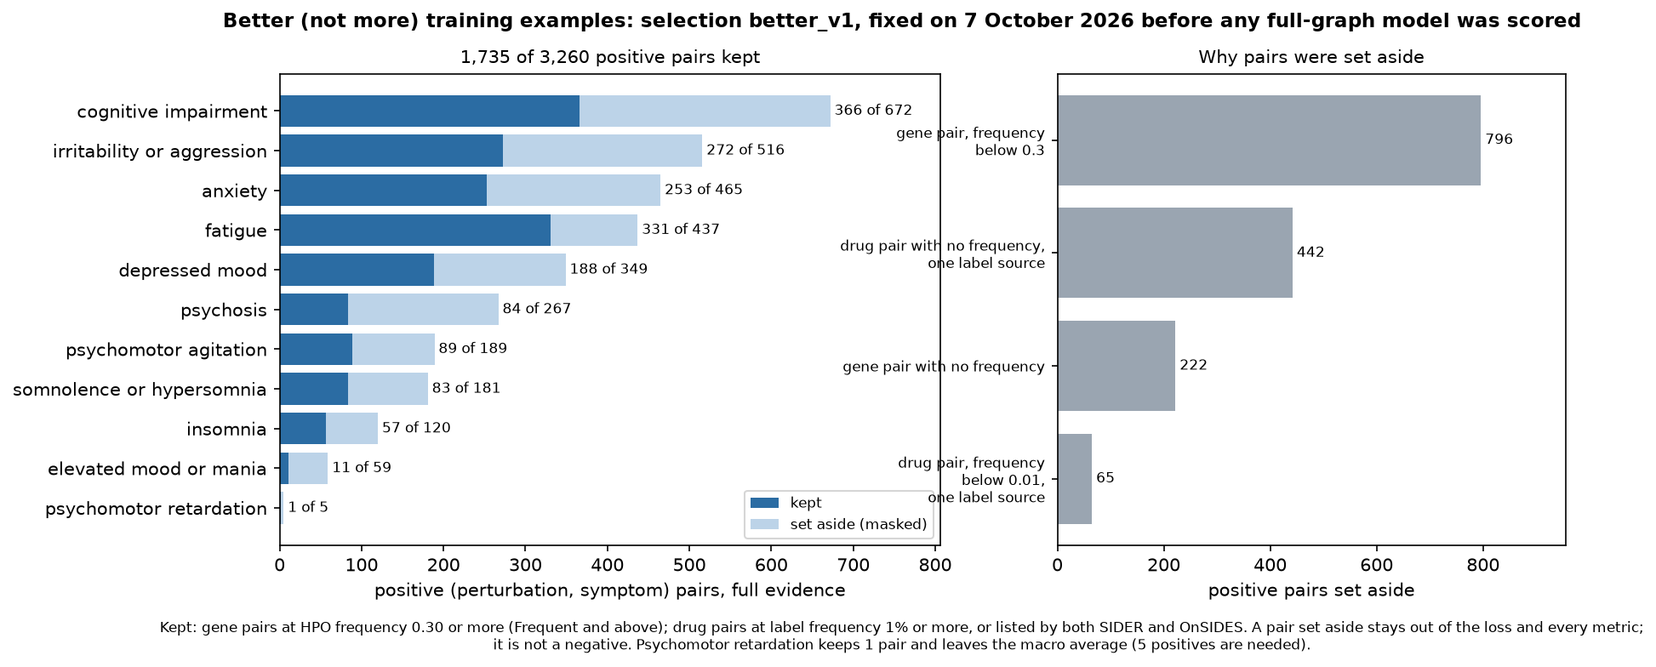
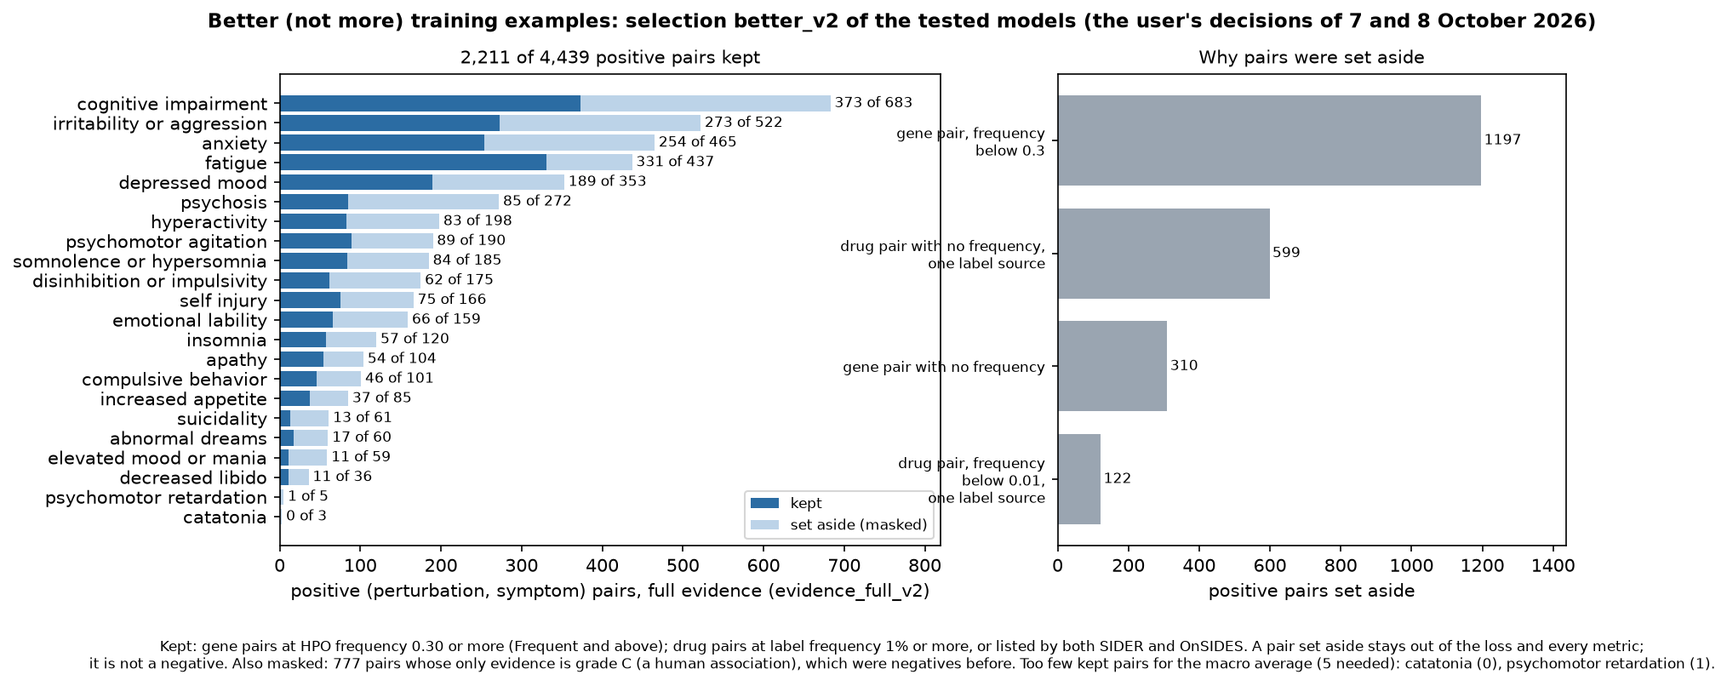
Explanatory figures brought up to date
The model figure now shows the two tested models (noisy-OR head on the
message-passing and linear-response encoders; sigmoid head on the slice
only), better_v2 labels, the 22 symptoms, rotated validation and refit,
and the cell-class channels the linear-response configurations use. The
label figure reads better_v2 with the grade C masking. The twin figure is
redrawn from the 41 regenerated pairs. The slice baselines figure is added
with a computed title. A new figure shows the gene and protein split with
the counts of graph_full_neuronal_split. No second-family development
score or lockbox output is read.

Claude-Session: https://claude.ai/code/session_01M6JNfpSxQbjqBt6hD4RjMV

Changed region(s): [[0.0, 0.0, 0.9866, 0.9796]]

diff --git a/experiments/make_explanatory_figures.py b/experiments/make_explanatory_figures.py
@@ -2,10 +2,11 @@
 
   1. model_pipeline: perturbation, graph layers, linear-response propagation, output gate, pooling, head and labels;
   2. cell_class_channels: the cell-class channels of LinearResponseEncoder on a six-node chain, computed by the encoder;
-  3. label_selection: the better_v1 label selection per symptom and the reasons pairs were set aside;
+  3. label_selection: the better_v2 label selection per symptom and the reasons pairs were set aside;
   4. dopaminergic_class: marker genes in the dopaminergic class against the highest Human Protein Atlas cluster type;
   5. slice_twin_comparisons: the one-change twin comparisons of the slice pilot (runs/twin_comparisons.json);
-  6. slice_baselines_and_models: per-fold macro AUPRC of the slice baselines and model configurations.
+  6. slice_baselines_and_models: per-fold macro AUPRC of the slice baselines and model configurations;
+  7. gene_protein_split: gene and protein nodes of graph_full_neuronal_split, with its counts.
 
 Figures whose inputs are missing are skipped with a message. Writes PNG files to docs/figures/. Idempotent.
 
@@ -33,7 +34,10 @@ from mechanistic_pathway_learning.models.linear_response_encoder import LinearRe
 
 OUTPUT_DIRECTORY = Path("docs/figures")
 FULL_GRAPH_DIRECTORY = Path("data/processed/graph_full_neuronal")
-LABEL_SELECTION_SUMMARY = Path("data/processed/label_selection/better_v1_full.summary.json")
+SPLIT_GRAPH_DIRECTORY = Path("data/processed/graph_full_neuronal_split")
+LABEL_SELECTION_SUMMARY = Path("data/processed/label_selection/better_v2_full_v2.summary.json")
+CELL_CLASS_WEIGHTS = Path("data/processed/cell_class_weights/full_neuronal_cell_class_weights.parquet")
+MINIMUM_POSITIVES_FOR_MACRO = 5
 DOPAMINERGIC_SUMMARY = Path("data/processed/brain_expression/dopaminergic_siletti_cluster395.summary.json")
 TWIN_COMPARISONS = Path("runs/twin_comparisons.json")
 SLICE_BASELINES = Path("runs/baselines_disease_cluster/results.json")
@@ -74,39 +78,54 @@ def draw_arrow(axis, start: tuple[float, float], end: tuple[float, float]) -> No
 
 def figure_model_pipeline() -> None:
     counts = graph_layer_counts(FULL_GRAPH_DIRECTORY)
+    split_summary = json.loads((SPLIT_GRAPH_DIRECTORY / "split_summary.json").read_text())
+    label_summary = json.loads(LABEL_SELECTION_SUMMARY.read_text())
+    cell_classes = [column for column in pd.read_parquet(CELL_CLASS_WEIGHTS).columns if column != "all_cells"]
     layer_lines = "\n".join(f"{layer}: {number:,} edges" for layer, number in sorted(counts["edges_by_layer"].items(), key=lambda item: -item[1]))
     node_lines = ", ".join(f"{number:,} {node_type.replace('_', ' ')}" for node_type, number in counts["node_types"].items() if number > 1)
-    figure, axis = plt.subplots(figsize=(14, 7.2))
+    figure, axis = plt.subplots(figsize=(15, 8.4))
     axis.set_xlim(0, 1)
     axis.set_ylim(0, 1)
     axis.axis("off")
-    top_row, bottom_row, height = 0.73, 0.27, 0.38
+    top_row, bottom_row, height = 0.755, 0.245, 0.44
     draw_box(axis, 0.105, top_row, 0.19, height, "1. Perturbation",
              "monogenic: loss or gain of function\nat one gene (sign, magnitude)\n\ndrug: signed effect at its\nprotein targets (ChEMBL mechanisms)\n\n"
-             "entered as a sustained input u\nat the perturbed nodes", BOX_COLOURS["input"])
-    draw_box(axis, 0.42, top_row, 0.38, height, "2. Graph (graph_full_neuronal)",
+             "entered as a sustained input u\nat the perturbed nodes\n\non the split graph (figure 7):\nknockouts seed gene nodes,\ndrugs seed protein nodes",
+             BOX_COLOURS["input"])
+    draw_box(axis, 0.415, top_row, 0.38, height, "2. Graph (graph_full_neuronal)",
              f"{counts['nodes']:,} nodes, {counts['edges']:,} edges, {counts['relations']} relations\n{node_lines}\n\n{layer_lines}\n\n"
-             "signed edges: activation +1, inhibition and\nrepression -1, substrate depletion -1", BOX_COLOURS["graph"])
-    draw_box(axis, 0.81, top_row, 0.34, height, "3. Linear-response propagation",
-             "h(t+1) = (1 - d) h(t) + d w_k (sum_r g_r S_r h(t) + u)\n\nS_r: signed adjacency of relation r, normalised\n"
-             "g_r: learned gain per relation and channel\n8 steps; the field is the change from baseline\n\n"
-             "w_k: node weight in cell class k (11 classes and\nall cells; implemented, not yet run)", BOX_COLOURS["propagation"])
-    draw_box(axis, 0.2, bottom_row, 0.36, height, "4. Readout field and output gate",
-             "field = (h W) * sigmoid(node properties W_g + b)\n\nnode properties (fixed, per node type):\nprotein (ESM-2 embeddings), metabolite and\n"
-             "reaction (EC) descriptors; brain region and\ncell-class expression, dopaminergic class included\n\n"
-             "properties change where the response is read,\nnot how it propagates", BOX_COLOURS["readout"])
+             "signed edges: activation +1, inhibition and\nrepression -1, substrate depletion -1\n\n"
+             f"gene and protein split (figure 7): {split_summary['gene_nodes'] + split_summary['protein_nodes']:,} gene and protein\n"
+             f"nodes, {split_summary['edges_after']:,} edges; slice runs only, the tested\nconfigurations do not use it",
+             BOX_COLOURS["graph"])
+    draw_box(axis, 0.815, top_row, 0.35, height, "3. Encoder (one per tested model)",
+             "message passing: node states from structural\nfeatures and descriptors, 2 layers of typed\nmessages (mean per relation)\n\n"
+             "linear response, 8 steps:\nh(t+1) = (1 - d) h(t) + d w_k (sum_r g_r S_r h(t) + u)\n"
+             "S_r: signed adjacency of relation r, normalised\ng_r: learned gain per relation and channel\n"
+             f"w_k: node weight in cell class k ({len(cell_classes)} classes and all\ncells), extracellular pools shared across classes\n\n"
+             "both read the difference field:\nperturbed minus unperturbed", BOX_COLOURS["propagation"])
+    draw_box(axis, 0.2, bottom_row, 0.36, height, "4. Node properties",
+             "fixed, per node type: protein (ESM-2 embeddings),\nmetabolite and reaction (EC) descriptors; brain\n"
+             "region and cell-class expression, with the\ndopaminergic class\n\n"
+             "message passing: in the node's starting state\nlinear response: in the output gate,\n"
+             "field = (h W) * sigmoid(node properties W_g + b),\nwhich changes where the response is read,\nnot how it propagates\n\n"
+             "treatments that keep the graph in charge (seed\nmasking, zero-initialised slow descriptor map):\nslice arms only, not applied", BOX_COLOURS["readout"])
     draw_box(axis, 0.52, bottom_row, 0.2, height, "5. Pooling and head",
-             "sum over nodes\n\nB3: sigmoid head\n(one logit per symptom)\n\nB6: noisy-OR over\npathway modules (gated\nnode supports and links)", BOX_COLOURS["readout"])
+             "sum over nodes\n\nnoisy-OR over pathway\nmodules (gated node\nsupports and links); each\nleak starts at its\nloss-optimal constant\n\n"
+             "sigmoid head (one logit\nper symptom): slice\ncomparisons only, dropped\nfrom the tested models\non 8 October", BOX_COLOURS["readout"])
     draw_box(axis, 0.82, bottom_row, 0.32, height, "6. Symptoms and labels",
-             "11 psychiatric symptoms\n\nlabels: HPO annotations (genes), SIDER and\nOnSIDES drug labels (drugs)\n"
-             "better_v1: low-frequency positives masked,\nneither positive nor negative\nunobserved pairs stay unlabelled\n\n"
-             "disease-cluster grouped folds", BOX_COLOURS["output"])
-    draw_arrow(axis, (0.2, top_row), (0.231, top_row))
-    draw_arrow(axis, (0.61, top_row), (0.641, top_row))
+             f"{len(label_summary['all_by_symptom'])} psychiatric symptoms in the evidence\n\nlabels: HPO annotations (genes), SIDER and\n"
+             "OnSIDES drug labels (drugs)\nbetter_v2: low-frequency positives and pairs\nwhose only evidence is grade C are masked,\n"
+             "neither positive nor negative;\nunobserved pairs stay unlabelled\n\n"
+             "folds grouped by disease cluster and drug\ntargets; lockbox_v2 held out; early-stopping\nvalidation rotated per seed; refit on\n"
+             "training and validation together", BOX_COLOURS["output"])
+    draw_arrow(axis, (0.2, top_row), (0.225, top_row))
+    draw_arrow(axis, (0.605, top_row), (0.64, top_row))
     draw_arrow(axis, (0.81, top_row - height / 2), (0.2, bottom_row + height / 2))
     draw_arrow(axis, (0.38, bottom_row), (0.42, bottom_row))
     draw_arrow(axis, (0.62, bottom_row), (0.66, bottom_row))
-    axis.set_title("The model, from a perturbation to symptom probabilities", fontsize=12, fontweight="bold")
+    axis.set_title("The two tested models (confirmatory_v2, noisy-OR head on each encoder), from a perturbation to symptom probabilities",
+                   fontsize=12, fontweight="bold")
     save(figure, "model_pipeline")
 
 
@@ -195,7 +214,7 @@ def figure_label_selection() -> None:
     symptom_axis.barh(labels, set_aside, left=kept, color="#bcd3e8", label="set aside (masked)")
     for row, (kept_count, set_aside_count) in enumerate(zip(kept, set_aside)):
         symptom_axis.text(kept_count + set_aside_count + 5, row, f"{kept_count} of {kept_count + set_aside_count}", va="center", fontsize=8)
-    symptom_axis.set_xlabel("positive (perturbation, symptom) pairs, full evidence")
+    symptom_axis.set_xlabel("positive (perturbation, symptom) pairs, full evidence (evidence_full_v2)")
     symptom_axis.set_xlim(0, max(kept + set_aside) * 1.2)
     symptom_axis.legend(loc="lower right", fontsize=8)
     symptom_axis.set_title(f"{summary['kept_pairs']:,} of {summary['positive_pairs']:,} positive pairs kept", fontsize=10)
@@ -209,12 +228,15 @@ def figure_label_selection() -> None:
     reason_axis.tick_params(axis="y", labelsize=8)
     reason_axis.set_xlabel("positive pairs set aside")
     reason_axis.set_title("Why pairs were set aside", fontsize=10)
-    figure.suptitle("Better (not more) training examples: selection better_v1, fixed on 7 October 2026 before any full-graph model was scored",
+    too_few = [f"{symptom.replace('_', ' ')} ({summary['kept_by_symptom'].get(symptom, 0)})" for symptom in symptoms
+               if summary["kept_by_symptom"].get(symptom, 0) < MINIMUM_POSITIVES_FOR_MACRO]
+    figure.suptitle("Better (not more) training examples: selection better_v2 of the tested models (the user's decisions of 7 and 8 October 2026)",
                     fontsize=11, fontweight="bold")
-    figure.text(0.5, -0.06, f"Kept: gene pairs at HPO frequency {summary['gene_minimum_frequency']:.2f} or more (Frequent and above); drug pairs at label "
+    figure.text(0.5, -0.09, f"Kept: gene pairs at HPO frequency {summary['gene_minimum_frequency']:.2f} or more (Frequent and above); drug pairs at label "
                 f"frequency {summary['drug_minimum_frequency']:.0%} or more, or listed by both SIDER and OnSIDES. A pair set aside stays out of the loss "
-                "and every metric;\nit is not a negative. Psychomotor retardation keeps 1 pair and leaves the macro average (5 positives are needed).",
-                ha="center", fontsize=8)
+                f"and every metric;\nit is not a negative. Also masked: {summary['masked_negative_pairs']:,} pairs whose only evidence is grade C (a human "
+                f"association), which were negatives before. Too few kept pairs for the macro average ({MINIMUM_POSITIVES_FOR_MACRO} needed): "
+                f"{', '.join(too_few)}.", ha="center", fontsize=8)
     save(figure, "label_selection")
 
 
@@ -278,12 +300,23 @@ def figure_slice_twin_comparisons() -> None:
     save(figure, "slice_twin_comparisons")
 
 
+def configuration_label(aggregate_name: str) -> str:
+    """The aggregate names a run by its directory, with the path when two directories share a name: runs/encoder/ holds
+    the reruns under the current code."""
+    name = aggregate_name.removesuffix("_disease_cluster")
+    if name.startswith("runs/encoder/"):
+        return name.removeprefix("runs/encoder/") + " (current code)"
+    if name.startswith("runs/"):
+        return name.removeprefix("runs/") + " (earlier code)"
+    return name
+
+
 def figure_slice_baselines_and_models() -> None:
     baselines = json.loads(SLICE_BASELINES.read_text())["splits"]["grouped"]
     runs = json.loads(SLICE_AGGREGATE.read_text())["runs"]
     rows = [(name.replace("_", " ") + " (baseline)", entry["per_fold_macro_auprc_mean"], entry["per_fold_macro_auprc_sd"], True)
             for name, entry in baselines.items()]
-    rows += [(name.removesuffix("_disease_cluster"), entry["per_fold_macro_auprc_mean"], entry["per_fold_macro_auprc_sd"], False)
+    rows += [(configuration_label(name), entry["per_fold_macro_auprc_mean"], entry["per_fold_macro_auprc_sd"], False)
              for name, entry in runs.items() if entry.get("num_splits") == 5]
     rows.sort(key=lambda row: row[1])
     figure, axis = plt.subplots(figsize=(10, 0.27 * len(rows) + 1.6))
@@ -296,17 +329,85 @@ def figure_slice_baselines_and_models() -> None:
     axis.set_yticks(positions, [row[0] for row in rows], fontsize=6.5)
     axis.set_xlim(0.15, max(row[1] + row[2] for row in rows) + 0.02)
     axis.set_xlabel("macro AUPRC per disease-cluster fold, mean ± standard deviation over 5 folds (n divisor)")
-    axis.set_title("Slice pilot (451 genes, metabolic layer): no trained configuration beats the random walk", fontsize=10.5, fontweight="bold")
+    configurations = [row for row in rows if not row[3]]
+    above_random_walk = sum(1 for row in configurations if row[1] > random_walk)
+    axis.set_title(f"Slice pilot: {len(configurations)} five-fold configurations, {above_random_walk} with a mean above the random walk",
+                   fontsize=10.5, fontweight="bold")
     save(figure, "slice_baselines_and_models")
 
 
+def draw_node_link_diagram(axis, nodes: dict, edges: list) -> None:
+    """nodes: name -> (x, y, label, colour); edges: (source, target, label). Arrows are clipped to the text boxes."""
+    text_of_node = {}
+    for name, (x, y, label, colour) in nodes.items():
+        text_of_node[name] = axis.text(x, y, label, ha="center", va="center", fontsize=7.8,
+                                       bbox={"boxstyle": "round,pad=0.35", "facecolor": colour, "edgecolor": "#333333"})
+    axis.figure.canvas.draw()  # the text boxes need a size before arrows can be clipped to them
+    for source, target, label in edges:
+        axis.annotate("", xy=(0.5, 0.5), xycoords=text_of_node[target], xytext=(0.5, 0.5), textcoords=text_of_node[source],
+                      arrowprops={"arrowstyle": "-|>", "color": "#555555", "patchA": text_of_node[source].get_bbox_patch(),
+                                  "patchB": text_of_node[target].get_bbox_patch(), "shrinkA": 2, "shrinkB": 2})
+        if label:
+            source_x, source_y = nodes[source][:2]
+            target_x, target_y = nodes[target][:2]
+            axis.text((source_x + target_x) / 2 + 0.01, (source_y + target_y) / 2, label, fontsize=7, color="#555555", ha="left", va="center")
+
+
+def figure_gene_protein_split() -> None:
+    summary = json.loads((SPLIT_GRAPH_DIRECTORY / "split_summary.json").read_text())
+    gene_to_protein = pd.read_parquet(SPLIT_GRAPH_DIRECTORY / "gene_to_protein.parquet")
+    entries_of_protein = gene_to_protein.drop_duplicates("protein_node_id").set_index("protein_node_id").uniprot_entry
+    calca_nodes = sorted(gene_to_protein.loc[gene_to_protein.gene_node_id == "GENE:CALCA", "protein_node_id"])
+    gene_colour, protein_colour, seed_colour = "#dbe9f6", "#e3f1df", "#fdebd3"
+    figure, axis = plt.subplots(figsize=(14, 5.6))
+    axis.set_xlim(0, 1)
+    axis.set_ylim(0, 1)
+    axis.axis("off")
+    nodes = {
+        "knockout": (0.06, 0.88, "knockout", seed_colour),
+        "transcription_factor": (0.06, 0.45, "transcription factor\n(protein node)", protein_colour),
+        "gene_calca": (0.2, 0.67, "GENE:CALCA", gene_colour),
+        "calcitonin": (0.36, 0.84, f"{calca_nodes[0]}\ncalcitonin", protein_colour),
+        "cgrp": (0.36, 0.5, f"{calca_nodes[1]}\nCGRP", protein_colour),
+        "drug": (0.52, 0.5, "drug whose ChEMBL\ntarget names CGRP", seed_colour),
+        "gene_cdkn2a": (0.66, 0.84, "GENE:CDKN2A", gene_colour),
+        "protein_cdkn2a": (0.66, 0.5, f"PROTEIN:CDKN2A\n{entries_of_protein['PROTEIN:CDKN2A']}", protein_colour),
+        "gene_h33a": (0.84, 0.84, "GENE:H3-3A", gene_colour),
+        "gene_h33b": (0.96, 0.84, "GENE:H3-3B", gene_colour),
+        "protein_h33": (0.9, 0.5, f"PROTEIN:H3-3A\n{entries_of_protein['PROTEIN:H3-3A']} (H3.3)", protein_colour),
+    }
+    edges = [("knockout", "gene_calca", ""), ("transcription_factor", "gene_calca", "regulates_\ntranscription_of"),
+             ("gene_calca", "calcitonin", "encodes"), ("gene_calca", "cgrp", "encodes"), ("drug", "cgrp", ""),
+             ("gene_cdkn2a", "protein_cdkn2a", "encodes"), ("gene_h33a", "protein_h33", ""), ("gene_h33b", "protein_h33", "")]
+    draw_node_link_diagram(axis, nodes, edges)
+    captions = [(0.2, 0.3, "Entries the data tell apart: one protein\nnode each. The only such gene on the\nfull graph: a ChEMBL target names CGRP."),
+                (0.66, 0.3, "Entries the data do not tell apart: one\nnode for all of them. OmniPath copies\nCDKN2A's rows to both entries."),
+                (0.9, 0.3, "One entry from several genes: a shared\nnode, so a knockout of one gene\nleaves the other's route.")]
+    for x, y, caption in captions:
+        axis.text(x, y, caption, ha="center", va="top", fontsize=8)
+    edge_ends = summary["edge_ends_at_genes_with_several_proteins"]
+    axis.text(0.5, 0.02,
+              f"{summary['gene_nodes']:,} gene nodes and {summary['protein_nodes']:,} protein nodes joined by {summary['encodes_edges']:,} encodes edges; "
+              f"{summary['protein_nodes_of_several_entries']} protein nodes hold several entries, {summary['shared_protein_nodes']} are shared by "
+              f"{summary['genes_on_a_shared_protein_node']} genes, {summary['genes_with_several_protein_nodes']} gene has several protein nodes and "
+              f"{summary['gene_nodes_without_a_protein_node']} gene nodes have none.\n"
+              f"Edges {summary['edges_before']:,} before, {summary['edges_after']:,} after. Edge ends at the split gene: {edge_ends['named_subset']} name one "
+              f"entry, {edge_ends['named_all']} name both. Gene nodes carry the brain expression columns, protein nodes the protein descriptors.",
+              ha="center", va="bottom", fontsize=8)
+    axis.set_title("Gene and protein nodes (graph_full_neuronal_split): a gene's entries are split only where the data tell them apart",
+                   fontsize=11, fontweight="bold")
+    save(figure, "gene_protein_split")
+
+
 FIGURES = {
-    "model_pipeline": (figure_model_pipeline, [FULL_GRAPH_DIRECTORY / "edges.parquet"]),
+    "model_pipeline": (figure_model_pipeline, [FULL_GRAPH_DIRECTORY / "edges.parquet", SPLIT_GRAPH_DIRECTORY / "split_summary.json",
+                                               LABEL_SELECTION_SUMMARY, CELL_CLASS_WEIGHTS]),
     "cell_class_channels": (figure_cell_class_channels, []),
     "label_selection": (figure_label_selection, [LABEL_SELECTION_SUMMARY]),
     "dopaminergic_class": (figure_dopaminergic_class, [DOPAMINERGIC_SUMMARY]),
     "slice_twin_comparisons": (figure_slice_twin_comparisons, [TWIN_COMPARISONS]),
     "slice_baselines_and_models": (figure_slice_baselines_and_models, [SLICE_BASELINES, SLICE_AGGREGATE]),
+    "gene_protein_split": (figure_gene_protein_split, [SPLIT_GRAPH_DIRECTORY / "split_summary.json", SPLIT_GRAPH_DIRECTORY / "gene_to_protein.parquet"]),
 }
 
 

diff --git a/docs/figures.md b/docs/figures.md
@@ -1,19 +1,26 @@
-# Explanatory figures (7 October 2026)
+# Explanatory figures (updated 8 October 2026)
 
 Drawn by experiments/make_explanatory_figures.py from the repository's own outputs (graph tables, summaries and run
 results), so each figure can be regenerated after the inputs change. Every result shown is from the monogenic slice,
-which is a pilot (docs/preregistration.md, amendment of 7 October); no full-graph model has been scored.
+which is a pilot (docs/preregistration.md, amendment of 7 October); no full-graph model has been scored. No figure
+reads a second-family (confirmatory_v2) development score or a lockbox output.
 
 ## 1. The model
 
 ![model pipeline](figures/model_pipeline.png)
 
-A perturbation (a gene's loss or gain of function, or a drug's signed effect at its targets) enters as a sustained
-input at its nodes in graph_full_neuronal. The linear-response encoder propagates it for 8 steps over the signed,
-normalised adjacency of each relation with a learned gain per relation and channel. The node properties then gate
-where the response is read. A sum over nodes feeds the head: a sigmoid per symptom (B3) or a noisy-OR over pathway
-modules (B6). Node and edge counts are computed from the graph tables when the figure is drawn. The cell-class weight
-w_k is implemented and tested but has not been used in a run.
+The two tested models of the second family (docs/confirmatory_runbook.md): the noisy-OR head on each of the two
+encoders. The user dropped the sigmoid head on 8 October 2026; it remains in the slice comparisons only. A perturbation
+(a gene's loss or gain of function, or a drug's signed effect at its targets) enters as a sustained input at its nodes
+in graph_full_neuronal. The message-passing encoder runs 2 layers of typed messages from node states built from the
+structural features and descriptors. The linear-response encoder propagates the input for 8 steps over the signed,
+normalised adjacency of each relation, with a learned gain per relation and channel and one channel per cell class
+(11 classes and all cells); extracellular pools are shared across classes. Both read the difference field (perturbed
+minus unperturbed). A sum over nodes feeds a noisy-OR over pathway modules whose leaks start at their loss-optimal
+constants. Labels follow better_v2 (figure 3), folds are grouped by disease cluster and drug targets, lockbox_v2 is held
+out, the early-stopping validation set rotates with the seed and each model is refitted on training and validation
+together. Node and edge counts are computed from the graph tables when the figure is drawn. The gene and protein split
+(figure 7) is built and under test on the slice; the tested configurations still name graph_full_neuronal.
 
 ## 2. Cell-class channels
 
@@ -25,17 +32,21 @@ with equal gains, class B does not express reaction R1, so a loss of function at
 channel. Marking product P as a shared extracellular pool makes P hold the mean of the two classes, and the change
 made in class A then reaches R2 and Q in class B at half its size. The values are computed by LinearResponseEncoder
 itself, untrained. The weights are a node's expression relative to its highest class, x_k / (max_j x_j + 1 nCPM)
-(mechanistic_pathway_learning/graph/brain_expression_weights.py).
+(mechanistic_pathway_learning/graph/brain_expression_weights.py). Both linear-response configurations of each family
+use these channels with extracellular coupling (--cell-class-weights, --extracellular-coupling); the first family's
+fold-0 development pilots ran with them.
 
 ## 3. Better (not more) training examples
 
 ![label selection](figures/label_selection.png)
 
-The better_v1 selection, fixed before any full-graph model was scored. Gene pairs are kept at HPO frequency 0.30 or
-more; drug pairs at label frequency 1 percent or more or when both SIDER and OnSIDES list them. 1,735 of 3,260
-positive pairs are kept. A pair set aside is masked out of the loss and every metric; it is not a negative. Most
-pairs set aside are gene pairs annotated below Frequent and drug label statements with no frequency. Psychomotor
-retardation keeps 1 pair and leaves the macro average; elevated mood or mania keeps 11.
+The better_v2 selection of the tested models, on evidence_full_v2. Gene pairs are kept at HPO frequency 0.30 or more;
+drug pairs at label frequency 1 percent or more or when both SIDER and OnSIDES list them. 2,211 of 4,439 positive pairs
+are kept. A pair set aside is masked out of the loss and every metric; it is not a negative. better_v2 keeps
+better_v1's positive rows and also masks the pairs whose only evidence is grade C (a human association): 777 in the
+whole evidence table, 172 of them in the data the trainer loads (preregistration, amendment of 8 October). Before,
+those pairs were negatives in scoring and weak negatives in training. Catatonia keeps no pair and psychomotor
+retardation keeps 1, so both leave the macro average (5 positives are needed).
 
 ## 4. The dopaminergic class
 
@@ -51,8 +62,37 @@ hundreds of nCPM and GAD1 and AQP4 below 3. Data: CC BY 4.0 (Siletti et al. 2023
 
 ![slice twin comparisons](figures/slice_twin_comparisons.png)
 
-Every two slice configurations that differ in one argument, both with five finished folds, read two ways: the pooled
-out-of-fold difference in macro AUPRC with a paired bootstrap, and the same after ranking scores inside each degree
-stratum of each fold. Dashed lines mark the preregistered minimum difference of 0.05. No pooled interval excludes
-zero. One within-strata interval does (the neuronal graph under the noisy-OR head, -0.019 [-0.040, -0.002]), about
-what 23 uncorrected intervals give by chance. docs/twin_comparisons.md has the numbers.
+Every two slice configurations that differ in one argument, both with five finished folds (41 pairs, regenerated on
+8 October with the brain-expression descriptor arms and their treatments), read two ways: the pooled out-of-fold
+difference in macro AUPRC with a paired bootstrap, and the same after ranking scores inside each degree stratum of
+each fold. Dashed lines mark the preregistered minimum difference of 0.05; no interval reaches it. Two pooled intervals
+exclude zero, about the 2.1 that 41 uncorrected intervals give by chance, and both are message-passing descriptor
+blocks: dropping the gene block scores below dropping the protein block, -0.025 [-0.040, -0.010], and dropping the
+gene-derived reaction block scores below it too, -0.030 [-0.046, -0.015]. Three within-strata intervals exclude zero (descriptors in message passing,
+-0.020; the same gene-against-protein pair, -0.022; the neuronal graph under the noisy-OR head, -0.019).
+docs/twin_comparisons.md has the numbers. The module-fix and gene-and-protein-split arms (runs/module_fix) are read in
+docs/module_health_results.md, docs/module_health_fast_leak_results.md and, when split_slice ends, its own document.
+
+## 6. Slice pilot: baselines and models
+
+![slice baselines and models](figures/slice_baselines_and_models.png)
+
+Per-fold macro AUPRC of the four slice baselines and every five-fold slice configuration of runs/phase3_aggregate.json
+(41 configurations). One configuration has a mean above the random walk's 0.293: b3_typed_nodes_descriptors_brain_without_protein
+at 0.296, with a fold standard deviation of 0.041 against the walk's 0.014, which no paired comparison has tested. The
+amendment of 7 October attributes the trained models' position to the slice's size and single layer rather than to the
+mechanism; the slice cannot tell those two apart. b3_typed_nodes appears twice: the earlier run and the rerun under
+the current code (runs/encoder/).
+
+## 7. Gene and protein nodes
+
+![gene and protein split](figures/gene_protein_split.png)
+
+graph_full_neuronal_split (docs/gene_protein_split.md, with the correction of 8 October on complex accessions). Each
+gene node joins its protein node by an encodes edge. A gene's reviewed UniProt entries get separate protein nodes only
+where the data tell them apart; on the full graph that is CALCA alone, because a ChEMBL target names CGRP (P06881) and
+not calcitonin (P01258). CDKN2A keeps one node for both entries, since OmniPath copies its rows to each. Entries shared
+by several genes (H3-3A and H3-3B for H3.3) get one shared node, so a knockout of one gene leaves the other's route.
+Knockouts seed gene nodes, drugs seed protein nodes and transcription edges end at genes. Gene nodes carry the brain
+expression columns and protein nodes the protein descriptors. Counts are read from split_summary.json when the figure
+is drawn.
